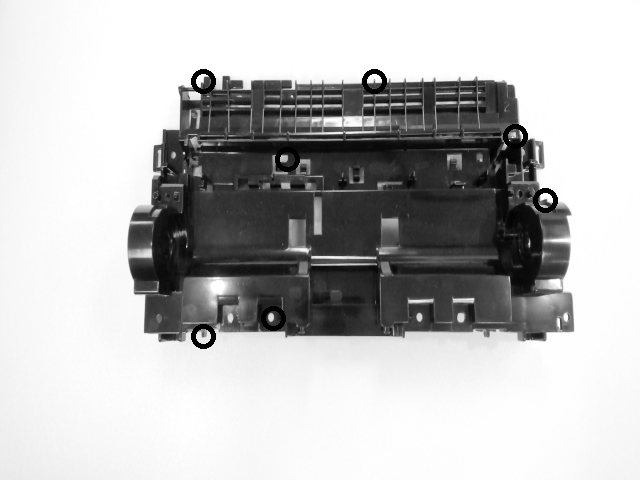
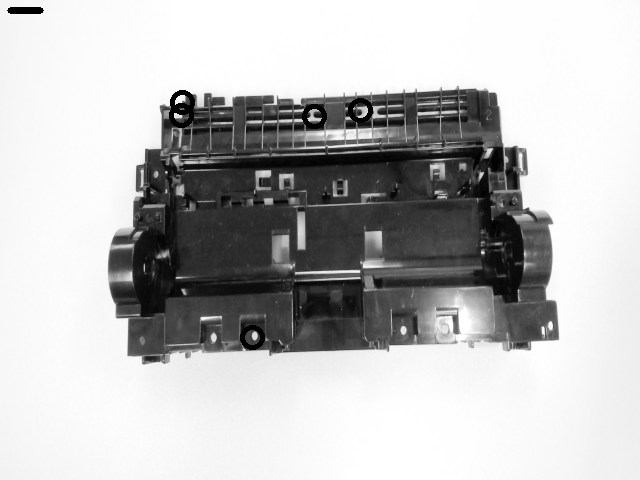
2020.01.30_ver1
good

Changed region(s): [[0.1562, 0.125, 0.9062, 0.7812], [0.0, 0.0, 0.0625, 0.0312]]

diff --git a/FastFeatureDetector.py b/FastFeatureDetector.py
@@ -34,7 +34,7 @@ print('len(kp_normalImage)=', len(kp_normalImage))
 cv2.imshow('dst_normalImage',  dst_normalImage)
 
 # Find Key point of Defect Image and show it with bigger threshold Value
-fastF_defectImage =cv2.FastFeatureDetector.create(threshold=90)
+fastF_defectImage =cv2.FastFeatureDetector.create(threshold=80)
 kp_defectImage = fastF_defectImage.detect(defectImage)
 dst_defectImage = cv2.drawKeypoints(defectImage, kp_defectImage, None, color=(0,0,255))
 print('len(kp_defectImage)=', len(kp_defectImage))
@@ -132,6 +132,9 @@ for i in range(len(popList)):
 for i in range(len(triangleForNormalImage)):
     cv2.circle(normalImage, (int(float(triangleForNormalImage[i][0])), int(float(triangleForNormalImage[i][1]))), 10, (0,0,255), 3)
 
+# Draw Lines For compare distance
+cv2.line(normalImage, (10,10), (40,10), (0,255,0), 5)
+
 print('After remove close pixels : ', triangleForNormalImage)
 
 cv2.imwrite('./img/withCircle_normal.png', normalImage)
@@ -211,7 +214,35 @@ for i in range(len(triangleForDefectImage)):
 
 print('After remove close pixels : ', triangleForDefectImage)
 
+# Draw Lines For compare distance
+cv2.line(defectImage, (10,10), (40,10), (0,255,0), 5)
+
 cv2.imwrite('./img/withCircle_defect1.png', defectImage)
 cv2.imshow('defectImage', defectImage)
+
+DefectPart = []
+
+for i in range(len(triangleForDefectImage)):
+    DefectPart.append(1)
+
+for i in range(len(triangleForDefectImage)):
+    for j in range(len(triangleForNormalImage)):
+        distanceXBetweenNormalAndDefect = triangleForDefectImage[i][0] - triangleForNormalImage[j][0]
+        distanceYBetweenNormalAndDefect = triangleForDefectImage[i][1] - triangleForNormalImage[j][1]
+
+        distanceBetweenNormalAndDefect = math.sqrt( distanceXBetweenNormalAndDefect **2 + distanceYBetweenNormalAndDefect ** 2)
+
+        if(distanceBetweenNormalAndDefect < 30) :
+            DefectPart[i] = 0
+
+
+defect = 0
+
+for i in range(len(triangleForDefectImage)):
+    if(DefectPart[i] == 1):
+        defect = 1
+
+if defect == 1 :
+    print('Defect is Detected!!')
 
 cv2.waitKey(0)
